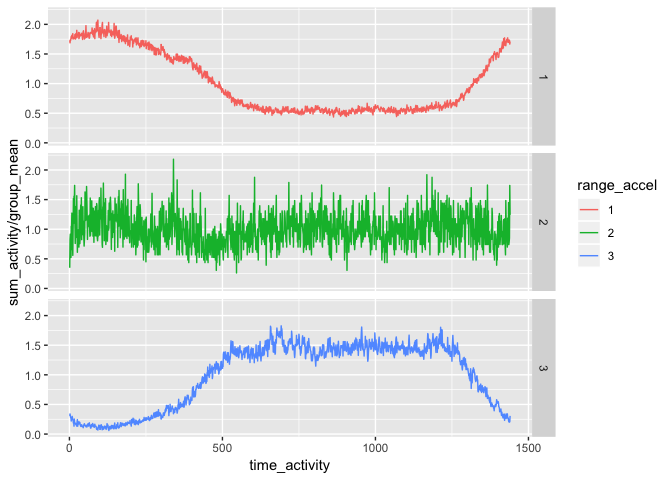
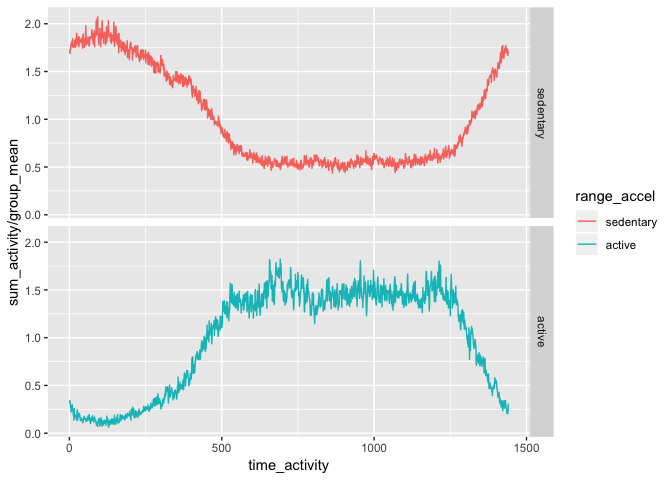
cut activities into two categories instead of three, merge the middle type activities into high activities

diff --git a/p8105_mtp_zf2213.md b/p8105_mtp_zf2213.md
@@ -62,22 +62,23 @@ acc %>% ggplot(aes(x = accel)) +
 
 It would be unreasonable to take the average of signals across time.
 
-It seems there are two "types" of activity, low intensity activity, such as sleep, sit, etc, and high intensity activity, such as walk, run, climb stairs, etc. And there is a middle type activity. The following analysis are based on these three types of activities.
+It seems there are two "types" of activity, low intensity activity, such as sleep, sit, etc, and high intensity activity, such as walk, run, climb stairs, etc. And there is a middle type activity. However, the middle type of activities are low in number, so merge it into high intensity activity. Actually, the high intensity activities are wide in range.
+
+The following analysis are based on these three types of activities.
 
 ### Activities over a day
 
 ``` r
 # subgroup range of activity 
-acc <- acc %>% mutate(range_accel = cut(accel, c(0, 8, 32, Inf), labels = c(1:3))) 
+acc <- acc %>% mutate(range_accel = cut(accel, c(0, 8, Inf), labels = c("sedentary", "active"))) 
 acc %>% count(range_accel)
 ```
 
-    ## # A tibble: 3 x 2
+    ## # A tibble: 2 x 2
     ##   range_accel      n
     ##   <fct>        <int>
-    ## 1 1           204542
-    ## 2 2            23121
-    ## 3 3           246097
+    ## 1 sedentary   204542
+    ## 2 active      269218
 
 ``` r
 # across a day
@@ -115,7 +116,7 @@ acc %>%
 acc %>%
     mutate(range_accel = cut(accel, c(0, 8, 32, 64, 128, 256, Inf), labels = c(1:6))) %>% 
     ggplot(aes(x = time_activity, y = day_of_period, color = as.numeric(range_accel))) +
-      geom_point()
+      geom_point(size = 0.1, alpha = 0.5)
 ```
 
 ![](p8105_mtp_zf2213_files/figure-markdown_github/unnamed-chunk-2-3.png)
